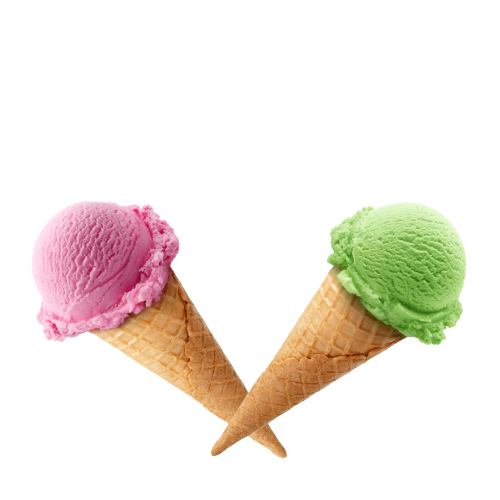
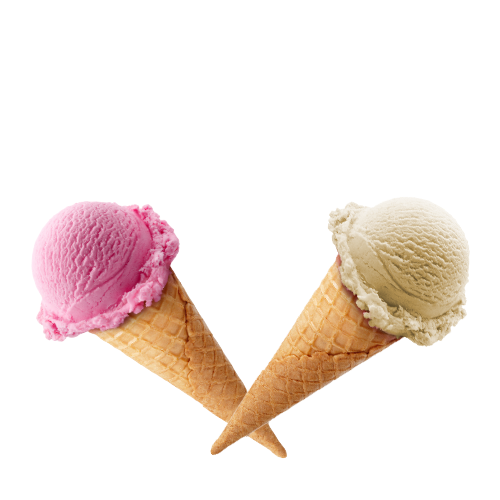
Added GSAP

Changed region(s): [[0.51, 0.39, 0.96, 0.84], [0.42, 0.78, 0.54, 0.93]]

diff --git a/index.html b/index.html
@@ -75,12 +75,19 @@
       <section class="hero">
         <div class="inner-hero container flex">
           <div class="hero-right-image">
-            <img src="images/strawberry.png" alt="strawberry" />
+            <img src="images/vanilla.png" alt="strawberry" />
+          </div>
+
+          <div class="hero-right-down-image">
+            <img src="images/vanilla.png" alt="strawberry" />
           </div>
           <h1>Milky Scoops</h1>
 
           <div class="hero-left-image">
             <img src="images/strawberry scoop.png" alt="strawberry-scoop" />
+          </div>
+          <div class="hero-left-down-image">
+            <img src="images/Chocolate.png" alt="strawberry" />
           </div>
         </div>
         <div class="hero-center-image">
@@ -90,7 +97,7 @@
 
       <!-- Flavours  -->
 
-      <section class="sections">
+      <section class="sections" id="s1">
         <div class="container">
           <h2>Choose Your <span>Flavour</span></h2>
           <div class="card-container flex">
@@ -101,7 +108,7 @@
 
               <div class="content flex">
                 <div>
-                  <p>Pistachio Ice cream</p>
+                  <p>Pistachio</p>
                   <span class="flavors">$3.99</span>
                 </div>
                 <a href="" class="icon">
@@ -115,8 +122,8 @@
 
               <div class="content flex">
                 <div>
-                  <p>Pistachio Ice cream</p>
-                  <span class="flavors">$3.99</span>
+                  <p>Strawberry Cheesecake</p>
+                  <span class="flavors">$5.99</span>
                 </div>
                 <a href="" class="icon">
                   <i class="fa-solid fa-shopping-bag"></i>
@@ -126,12 +133,12 @@
 
             <div class="card">
               <div class="card-image">
-                <img src="images/strawberry icecream.png" alt="strawberry" />
+                <img src="images/chocolate icecream.png" alt="strawberry" />
               </div>
 
               <div class="content flex">
                 <div>
-                  <p>Strawberry Ice cream</p>
+                  <p>Chocolate</p>
                   <span class="flavors">$3.99</span>
                 </div>
                 <a href="" class="icon">
@@ -145,7 +152,7 @@
 
       <!-- CTA  -->
 
-      <section class="sections">
+      <section class="sections" id="s2">
 
         <div class="cta container">
           <div class="cta-right-image">
@@ -161,7 +168,7 @@
         </div>
       </section>
 
-      <section class=" sections">
+      <section class=" sections" id="s3">
 
 <div class="cta-2">
   <div class="container flex">
@@ -201,9 +208,13 @@
     </footer>
   </body>
   
-  <script src="main.js"></script>
 
 <!-- Script  -->
+
+  <script src="https://cdnjs.cloudflare.com/ajax/libs/gsap/3.12.5/gsap.min.js" integrity="sha512-7eHRwcbYkK4d9g/6tD/mhkf++eoTHwpNM9woBxtPUBWm67zeAfFC+HrdoE2GanKeocly/VxeLvIqwvCdk7qScg==" crossorigin="anonymous" referrerpolicy="no-referrer"></script>
+  <script src="https://cdnjs.cloudflare.com/ajax/libs/gsap/3.12.5/ScrollTrigger.min.js" integrity="sha512-onMTRKJBKz8M1TnqqDuGBlowlH0ohFzMXYRNebz+yOcc5TQr/zAKsthzhuv0hiyUKEiQEQXEynnXCvNTOk50dg==" crossorigin="anonymous" referrerpolicy="no-referrer"></script>
+  <script src="main.js"></script>
+
 
 <script>
   document.getElementById('current-year').textContent = new Date().getFullYear();

diff --git a/style.css b/style.css
@@ -196,6 +196,19 @@ span {
   font-size: 0.95rem;
 }
 
+.link {
+  text-decoration: none;
+  color: var(--text-color); 
+  font-size: 16px;
+  transition: color 0.3s ease, transform 0.3s ease;
+}
+
+
+.link:hover {
+  color: var(--span-color); 
+  transform: scale(1.1); 
+}
+
 .logo {
   font-size: 1.3rem;
   color: var(--text-color);
@@ -259,7 +272,6 @@ span {
   justify-content: center;
   padding: 3rem 5rem;
   position: relative;
-  isolation: isolate;
 }
 
 .hero-center-image {
@@ -272,21 +284,37 @@ span {
   -o-transform: translateX(-50%) rotate(33deg);
   top: 30%;
   width: 25vw;
+  z-index: 1;
 }
 
 .hero-right-image,
 .hero-left-image {
   position: absolute;
-  width: 12vw;
+  width: 8vw;
   top: 0;
 }
 
-.hero-right-image {
-  right: 0;
-  z-index: -1;
+.hero-right-down-image {
+
+  position: absolute;
+  width: 8vw;
+  bottom: 0;
 }
 
-.hero-left-image {
+.hero-left-down-image {
+
+  position: absolute;
+  width: 8vw;
+  bottom: 0;
+}
+
+.hero-right-image,
+.hero-right-down-image {
+  right: 0;
+}
+
+.hero-left-image,
+.hero-left-down-image {
   left: 0;
 }
 
@@ -390,6 +418,7 @@ span {
   width: 30rem;
   bottom: -5%;
   left: 0;
+z-index: 1;  
 }
 
 /* CTA-2  */
@@ -399,7 +428,11 @@ span {
   padding-top: 5rem;
 }
 
-.milky-image img {
+.bg-image {
+  z-index: 3;
+}
+
+.bg-image img {
   display: block;
 }
 

diff --git a/main.js b/main.js
@@ -28,3 +28,72 @@ window.addEventListener('load', function() {
         setTimeout(hideLoader, remainingTime);
     }
 });
+
+// GSAP 
+
+var tl = gsap.timeline({
+    scrollTrigger: {
+      trigger: "#s1",
+      start: "0% 65%",
+      end: "80% 50%",
+      scrub: true,
+    
+    }
+  });
+
+  tl.to(".hero-center-image", {
+    top: "158%",
+    left: "50%",
+    rotate: "0",
+    width: "12vw",
+
+  })
+
+  var tl1 = gsap.timeline({
+    scrollTrigger: {
+      trigger: "#s2",
+      start: "0% 65%",
+      end: "80% 50%",
+      scrub: true,
+    }
+  });
+
+  tl.to(".hero-center-image", {
+    top: "158%",
+    left: "50%",
+    rotate: "0",
+    width: "12vw",
+
+  })
+
+  tl1.to(".hero-center-image", {
+    top: "260.5%",
+    left: "20.2%",
+    rotate: "360",
+    width: "8vw",
+
+  })
+
+  var tl2 = gsap.timeline({
+    scrollTrigger: {
+      trigger: "#s3",
+      start: "20% 65%",
+      end: "40% 50%",
+      scrub: true,
+    }
+  });
+
+  tl.to(".hero-center-image", {
+    top: "160%",
+    left: "50%",
+    width: "12vw",
+
+  })
+
+  tl2.to(".hero-center-image", {
+    top: "331.3%",
+    left: "29%",
+    rotate: "-55deg",
+    width: "17vw",
+
+  })
